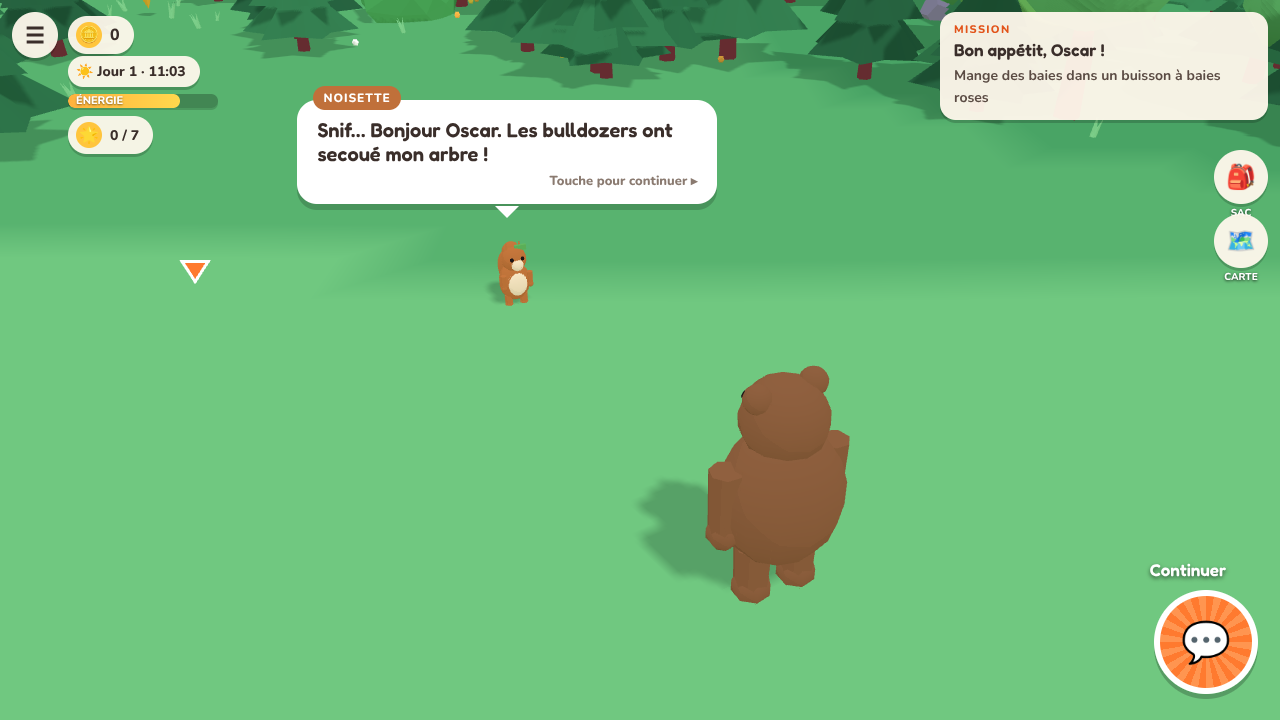
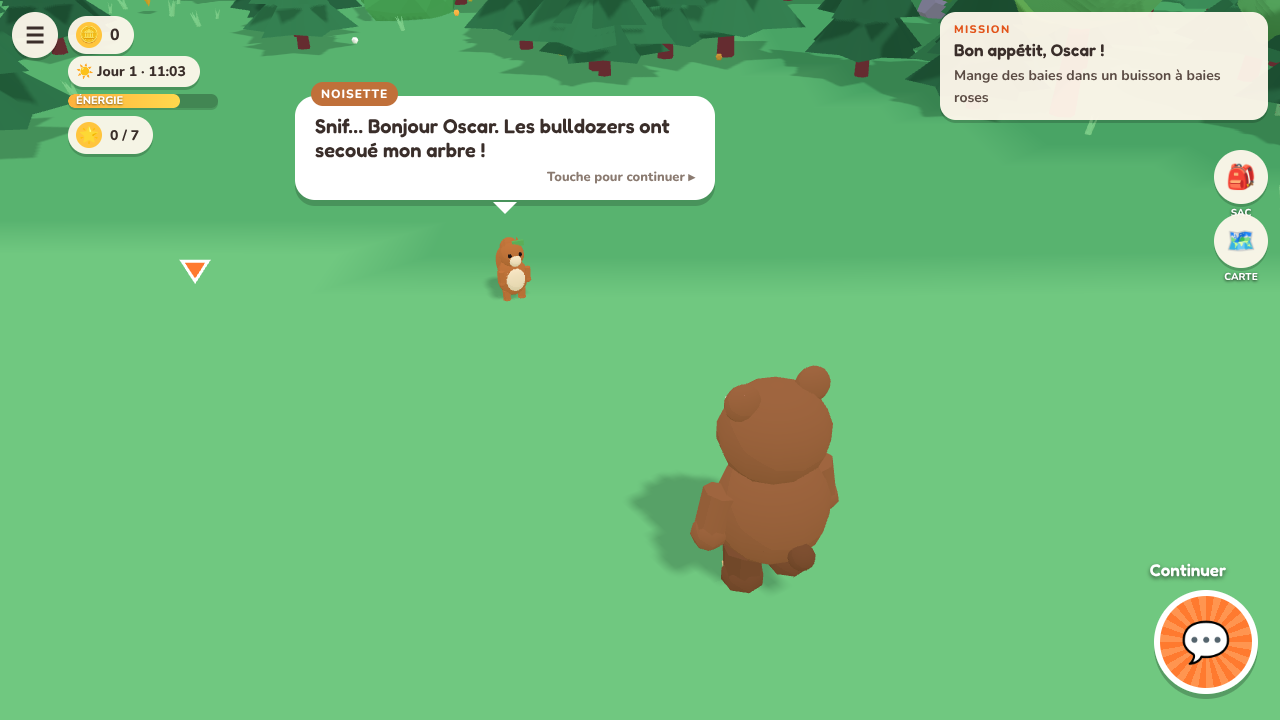
Ours Malin : nouvel Oscar plus mignon (style dessin animé), couverture refaite
Claude-Session: https://claude.ai/code/session_01AEbwQb9SR3dw2KQBUsDw85

diff --git a/ours/index.html b/ours/index.html
@@ -1059,39 +1059,49 @@ function ball(parent, mat, r, x, y, z, sx, sy, sz) {
 }
 const eyeMat = lam(0x1d1416, { flatShading: false });
 function makeBear() {
-  const g = new T.Group(), fur = lam(0x8b5a3c, { flatShading: false }), lightF = lam(0xd6a36d, { flatShading: false });
+  // Oscar : grosse tête ronde, petit corps rond, pattes courtes (style dessin animé)
+  const g = new T.Group(), fur = lam(0x9a5f3c), furD = lam(0x7a4a2e), light = lam(0xe8c08a), pink = lam(0xf2a0a0), white = new T.MeshBasicMaterial({ color: 0xffffff });
   const body = new T.Group(); g.add(body);
-  ball(body, fur, 0.78, 0, 1.35, 0, 1, 1.15, 0.88);
-  ball(body, lightF, 0.55, 0, 1.25, 0.34, 1, 1.2, 0.6);
-  const head = new T.Group(); head.position.set(0, 2.25, 0.05); body.add(head);
-  ball(head, fur, 0.52, 0, 0, 0);
-  ball(head, lightF, 0.24, 0, -0.08, 0.42, 1.1, 0.85, 1);
-  ball(head, eyeMat, 0.09, 0, -0.02, 0.64);
-  for (const s of [-1, 1]) { ball(head, eyeMat, 0.07, s * 0.2, 0.12, 0.44); ball(head, fur, 0.17, s * 0.36, 0.38, -0.02); ball(head, lightF, 0.09, s * 0.36, 0.4, 0.06); }
-  const rig = { body, head, armL: limb(body, fur, 0.2, 0.85, -0.72, 1.85, 0.05), armR: limb(body, fur, 0.2, 0.85, 0.72, 1.85, 0.05), legL: limb(g, fur, 0.24, 0.62, -0.32, 0.72, 0), legR: limb(g, fur, 0.24, 0.62, 0.32, 0.72, 0) };
+  ball(body, fur, 0.72, 0, 1.05, 0, 1, 1.0, 0.92);
+  ball(body, light, 0.5, 0, 1.0, 0.36, 0.95, 1.0, 0.55);
+  ball(body, furD, 0.16, 0, 0.75, -0.66);
+  const head = new T.Group(); head.position.set(0, 2.05, 0.06); body.add(head);
+  ball(head, fur, 0.64, 0, 0, 0, 1.05, 0.95, 1);
+  ball(head, light, 0.3, 0, -0.16, 0.5, 1.15, 0.85, 0.8);
+  ball(head, eyeMat, 0.11, 0, -0.05, 0.75, 1.2, 0.85, 0.9);
+  for (const s2 of [-1, 1]) {
+    ball(head, eyeMat, 0.1, s2 * 0.23, 0.12, 0.54, 0.9, 1.1, 0.6);
+    const hl = new T.Mesh(new T.SphereGeometry(0.035, 6, 4), white); hl.position.set(s2 * 0.23 + 0.03, 0.17, 0.6); head.add(hl);
+    ball(head, pink, 0.09, s2 * 0.38, -0.12, 0.45, 1.2, 0.7, 0.5);
+    ball(head, fur, 0.22, s2 * 0.46, 0.5, -0.02, 1, 1, 0.75);
+    ball(head, pink, 0.12, s2 * 0.47, 0.5, 0.11, 1, 1, 0.4);
+  }
+  const rig = { body, head, armL: limb(body, fur, 0.21, 0.55, -0.66, 1.4, 0.08), armR: limb(body, fur, 0.21, 0.55, 0.66, 1.4, 0.08), legL: limb(g, furD, 0.26, 0.42, -0.33, 0.52, 0.02), legR: limb(g, furD, 0.26, 0.42, 0.33, 0.52, 0.02) };
+  for (const l of [rig.legL, rig.legR]) { const pad = new T.Mesh(new T.SphereGeometry(0.16, 8, 6), light); pad.position.set(0, -0.42, 0.2); pad.scale.set(1, 0.5, 0.9); l.add(pad); }
+  for (const a of [rig.armL, rig.armR]) { a.rotation.z = a === rig.armL ? -0.25 : 0.25; }
   // Déguisement : chapeau, manteau à carreaux et lunettes
   const dis = new T.Group(); dis.visible = false; body.add(dis);
-  const coat = new T.Mesh(new T.CylinderGeometry(0.84, 0.92, 1.35, 10), lam(0xc0392b)); coat.position.set(0, 1.4, 0); coat.scale.z = 0.92; coat.castShadow = true; dis.add(coat);
-  const collar = new T.Mesh(new T.TorusGeometry(0.55, 0.12, 6, 12), lam(0x8e2a20)); collar.position.set(0, 2.0, 0.02); collar.rotation.x = Math.PI / 2; dis.add(collar);
-  const hat = new T.Group(); hat.position.set(0, 0.42, 0); head.add(hat); hat.visible = false;
+  const coat = new T.Mesh(new T.CylinderGeometry(0.66, 0.8, 1.15, 12), lam(0xc0392b)); coat.position.set(0, 1.12, 0); coat.scale.z = 0.95; coat.castShadow = true; dis.add(coat);
+  const collar = new T.Mesh(new T.TorusGeometry(0.5, 0.12, 6, 12), lam(0x8e2a20)); collar.position.set(0, 1.68, 0.02); collar.rotation.x = Math.PI / 2; dis.add(collar);
+  const hat = new T.Group(); hat.position.set(0, 0.56, 0); head.add(hat); hat.visible = false;
   hat.add(new T.Mesh(new T.CylinderGeometry(0.72, 0.72, 0.06, 16), lam(0x3e5a3a)));
   const crown = new T.Mesh(new T.CylinderGeometry(0.4, 0.45, 0.5, 14), lam(0x3e5a3a)); crown.position.y = 0.26; hat.add(crown);
   const band = new T.Mesh(new T.CylinderGeometry(0.46, 0.46, 0.1, 14), lam(0xd84a3a)); band.position.y = 0.1; hat.add(band);
-  const glasses = new T.Group(); glasses.position.set(0, 0.12, 0.47); head.add(glasses); glasses.visible = false;
-  for (const s of [-1, 1]) { const l = new T.Mesh(new T.BoxGeometry(0.24, 0.16, 0.05), lam(0x111111)); l.position.x = s * 0.18; glasses.add(l); }
+  const glasses = new T.Group(); glasses.position.set(0, 0.13, 0.62); head.add(glasses); glasses.visible = false;
+  for (const s of [-1, 1]) { const l = new T.Mesh(new T.BoxGeometry(0.28, 0.18, 0.05), lam(0x111111)); l.position.x = s * 0.23; l.rotation.y = s * 0.25; glasses.add(l); }
   // Chapeaux bonus achetés au village
   const extra = {};
-  extra.cowboy = new T.Group(); extra.cowboy.position.y = 0.42; head.add(extra.cowboy); extra.cowboy.visible = false;
+  extra.cowboy = new T.Group(); extra.cowboy.position.y = 0.56; head.add(extra.cowboy); extra.cowboy.visible = false;
   extra.cowboy.add(new T.Mesh(new T.CylinderGeometry(0.85, 0.85, 0.06, 16), lam(0xa0703a)));
   const cc = new T.Mesh(new T.CylinderGeometry(0.36, 0.44, 0.45, 12), lam(0xa0703a)); cc.position.y = 0.25; extra.cowboy.add(cc);
-  extra.crown = new T.Group(); extra.crown.position.y = 0.4; head.add(extra.crown); extra.crown.visible = false;
+  extra.crown = new T.Group(); extra.crown.position.y = 0.55; head.add(extra.crown); extra.crown.visible = false;
   const cr = new T.Mesh(new T.CylinderGeometry(0.4, 0.4, 0.3, 8, 1, true), lam(0xffc53d, { side: T.DoubleSide })); cr.position.y = 0.15; extra.crown.add(cr);
   for (let i = 0; i < 8; i++) { const p = new T.Mesh(new T.ConeGeometry(0.08, 0.22, 4), lam(0xffc53d)); p.position.set(Math.cos(i / 8 * 6.283) * 0.4, 0.38, Math.sin(i / 8 * 6.283) * 0.4); extra.crown.add(p); }
-  extra.golden = new T.Group(); extra.golden.position.y = 0.42; head.add(extra.golden); extra.golden.visible = false;
+  extra.golden = new T.Group(); extra.golden.position.y = 0.56; head.add(extra.golden); extra.golden.visible = false;
   extra.golden.add(new T.Mesh(new T.CylinderGeometry(0.72, 0.72, 0.06, 16), lam(0xffc53d)));
   const gc = new T.Mesh(new T.ConeGeometry(0.42, 0.8, 10), lam(0xffc53d)); gc.position.y = 0.42; extra.golden.add(gc);
   extra.sun = glasses;
-  extra.noisette = new T.Group(); extra.noisette.position.y = 0.36; head.add(extra.noisette); extra.noisette.visible = false;
+  extra.noisette = new T.Group(); extra.noisette.position.y = 0.48; head.add(extra.noisette); extra.noisette.visible = false;
   const nc = new T.Mesh(new T.SphereGeometry(0.5, 12, 8, 0, 6.283, 0, 1.5), lam(0x8a5a30)); nc.scale.y = 0.7; extra.noisette.add(nc);
   const ns = new T.Mesh(new T.CylinderGeometry(0.05, 0.06, 0.25, 5), lam(0x5a3a20)); ns.position.y = 0.38; extra.noisette.add(ns);
   g.userData = { rig, dis, hat, glasses, extra };
